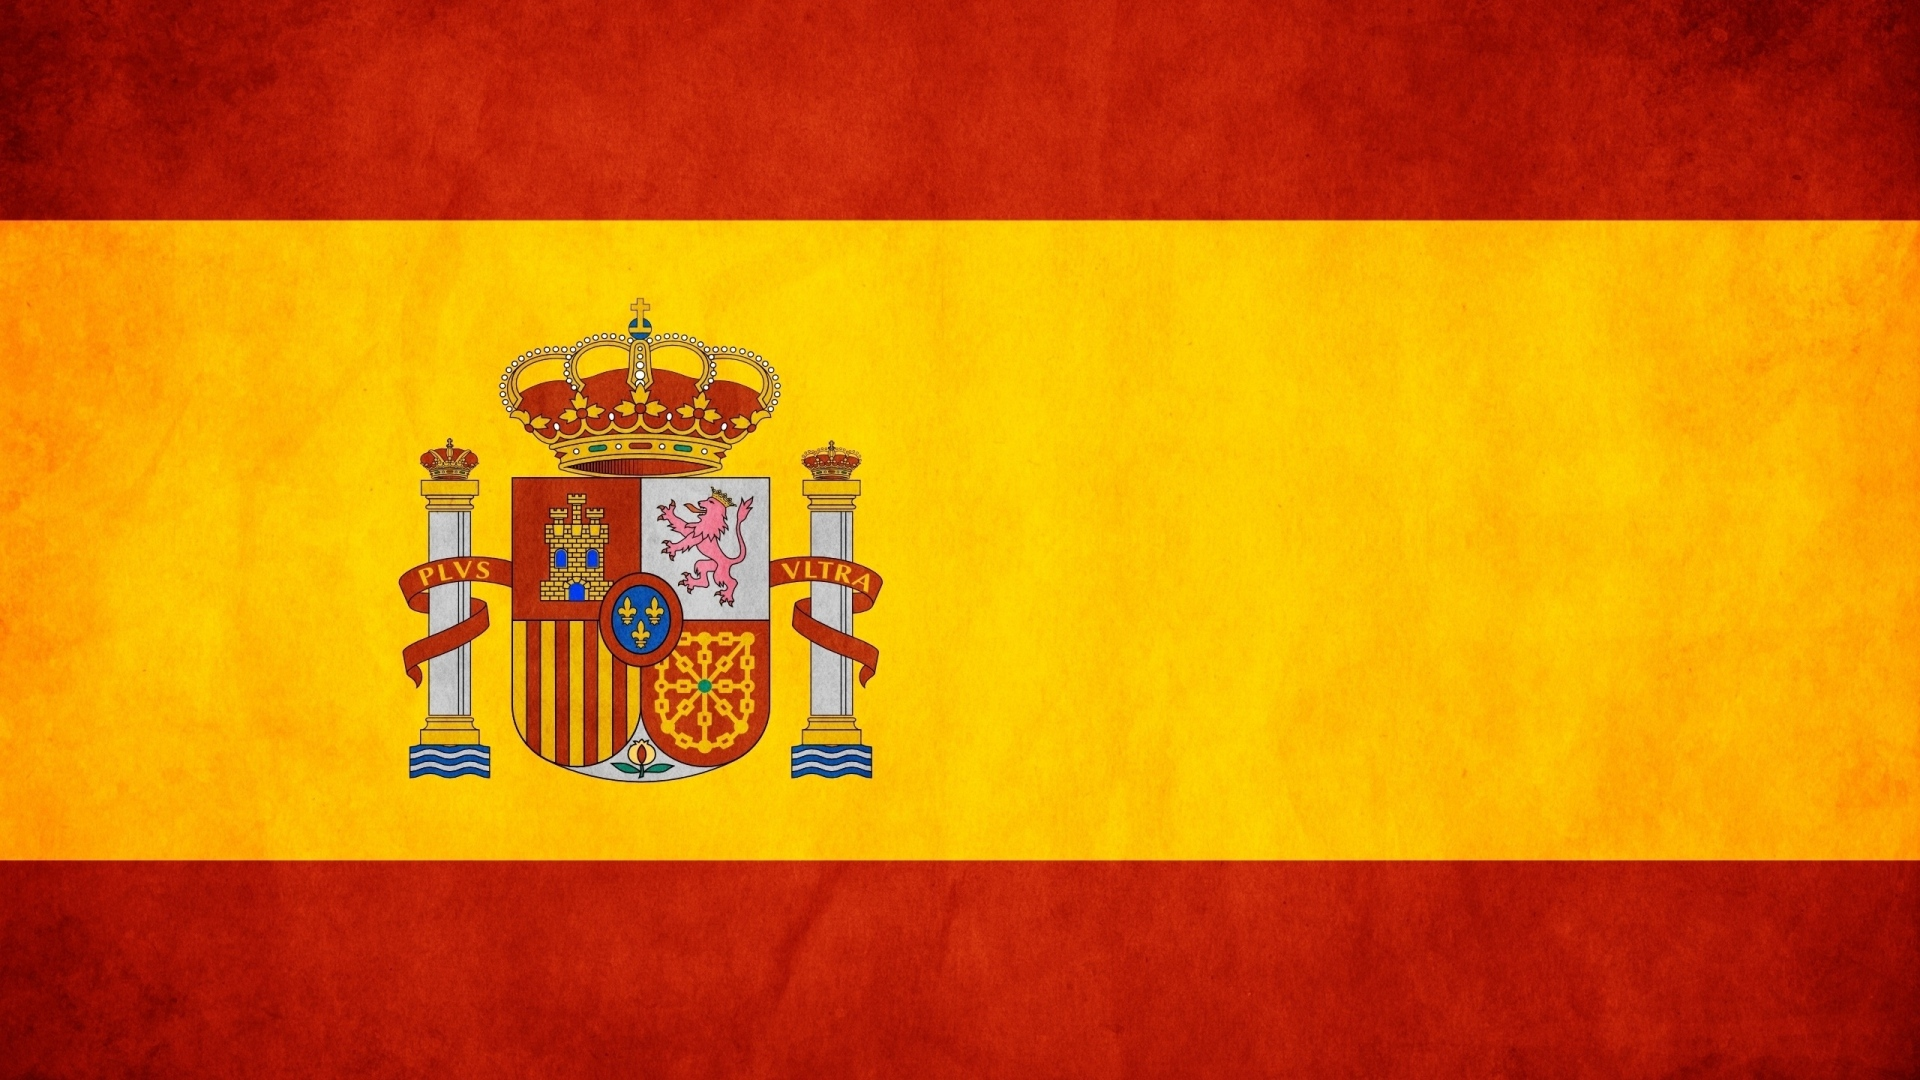
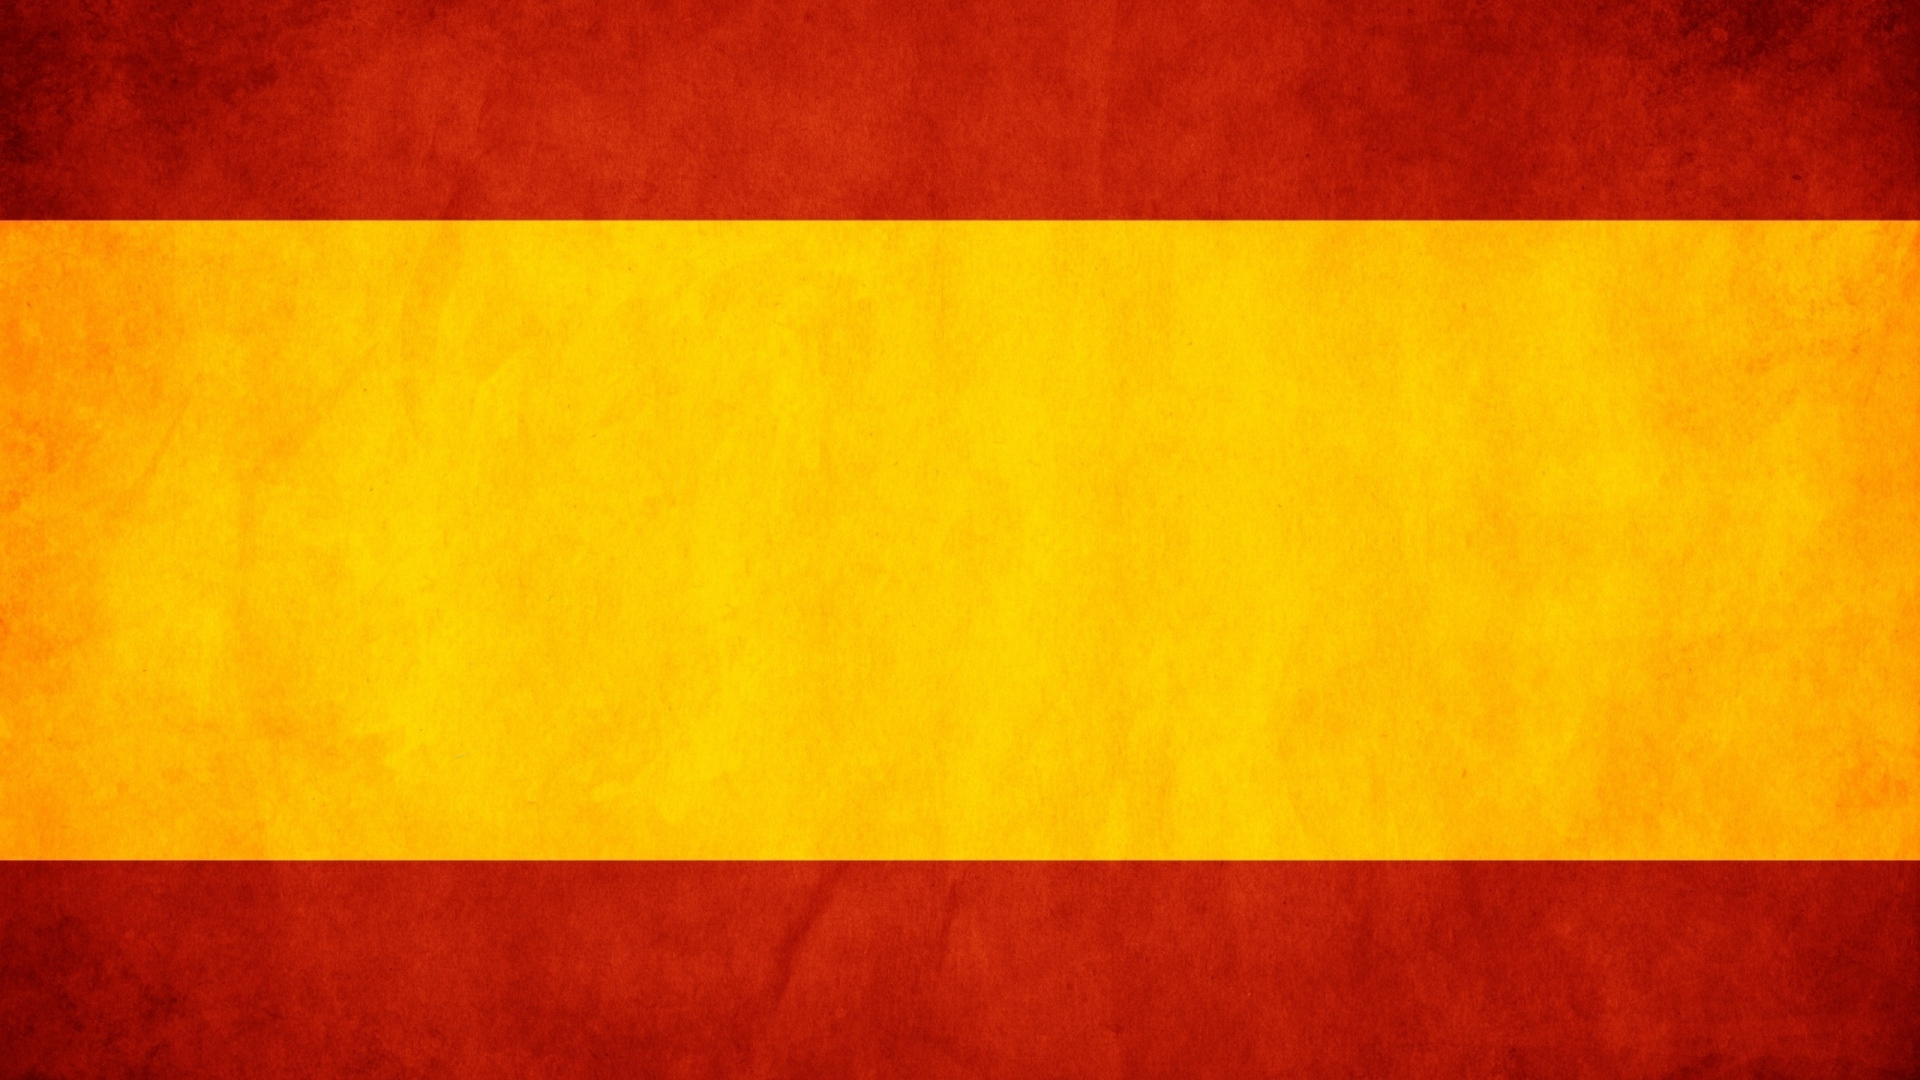
changed design

Changed region(s): [[0.1875, 0.275, 0.4688, 0.7333]]

diff --git a/src/main/webapp/resources/js/teamMatches.js b/src/main/webapp/resources/js/teamMatches.js
@@ -54,6 +54,35 @@ $(document).ready(function () {
             $(".rt02-row").remove();
             $("#team-logo").empty();
 
+
+                var team = $("#TeamsList").val();
+                if (team.toLowerCase() !== "selectteam"){
+                    var season = $("#SeasonsList").val();
+                    //var tournament = $("#TournamentsList").val();
+                    var opponent = $("#OpponentsList").val();
+                    var tournament ="";
+
+                        $.ajax({
+                            data: {"teamCode": team, "opponentTeamCode": opponent, "seasonCode": season, "tournamentCode": tournament},
+                            url: '/teamMatches',
+                            type: 'GET',
+                            datatype: 'json',
+                            headers: {
+                                'Content-Type': 'application/json',
+                                'Version': 'V1',
+                                'Authorization': 'Basic QWRtaW46YWRtaW4='
+                            },
+                            success: function (data, status) {
+                                var total=data.length;
+                                var startIndex=0;
+
+                                  //alert(total);
+                                if (total !== 0) {
+                                    $("#main").removeClass("vertical-aligned");
+                                    $("#countries").hide();
+                                    $("#rt02").show();
+                                    $("#team-logo").append("<img id='team-img' src=/resources/images/" + imgPath[team] + "  width='100px' height='100px' />");
+
             var country = $("#CountriesList").val();
 
                     switch (country) {
@@ -88,38 +117,6 @@ $(document).ready(function () {
                             }
                             break;
                     }
-
-
-                var team = $("#TeamsList").val();
-                if (team.toLowerCase() !== "selectteam"){
-                    var season = $("#SeasonsList").val();
-                    //var tournament = $("#TournamentsList").val();
-                    var opponent = $("#OpponentsList").val();
-                    var tournament ="";
-
-                        $.ajax({
-                            data: {"teamCode": team, "opponentTeamCode": opponent, "seasonCode": season, "tournamentCode": tournament},
-                            url: '/teamMatches',
-                            type: 'GET',
-                            datatype: 'json',
-                            headers: {
-                                'Content-Type': 'application/json',
-                                'Version': 'V1',
-                                'Authorization': 'Basic QWRtaW46YWRtaW4='
-                            },
-                            success: function (data, status) {
-                                var total=data.length;
-                                var startIndex=0;
-
-                                  //alert(total);
-                                if (total !== 0) {
-
-                                    $("#rt02").show();
-
-
-                                    $("#team-logo").append("<img id='team-img' src=/resources/images/" + imgPath[team] + "  width='100px' height='100px' />");
-
-
 
                                 //alert("total !== 0");
                                 var classValue2='odd';

diff --git a/src/main/webapp/resources/css/home.css b/src/main/webapp/resources/css/home.css
@@ -1,5 +1,50 @@
 body {
-    background-image: url(/resources/images/app/texture01.jpg);
+    background-image: url(/resources/images/app/texture02.jpg);
     background-size: 100%;
 
 }
+
+#main{
+    position: absolute;
+    top: 50%;
+    left: 50%;
+    transform: translateX(-50%) translateY(-50%);
+}
+
+#tt-logo{
+vertical-align: middle;
+    width: 400px;
+    height: 60px
+}
+
+.country-img{
+width: 300px;
+height: 160px
+}
+
+	button {
+		border: 0 !important;  /*Removes border*/
+		-webkit-appearance: none;  /*Removes default chrome and safari style*/
+		-moz-appearance: none; /* Removes Default Firefox style*/
+        appearance:none;
+        /*background: #0088cc;*/
+        background: radial-gradient(#909090, #595959);
+		width: 120px; /*Width of select dropdown to give space for arrow image*/
+		text-indent: 0.01px; /* Removes default arrow from firefox*/
+		text-overflow: "";  /*Removes default arrow from firefox*/ /*My custom style for fonts*/
+		color: #FFF;
+		border-radius: 15px;
+		padding: 5px;
+		box-shadow: inset 0 0 5px rgba(000,000,000, 0.5);
+		    font-size: 12pt;
+            font-weight: bold;
+	}
+
+
+	button:hover {
+        /*background: radial-gradient(#FF0000, #880000);*/
+        background: radial-gradient(#77FF00, #00AA00);
+        color: white;
+        -webkit-border-radius: 15px;
+        border-color: #00AA00;
+    }

diff --git a/src/main/webapp/resources/js/Standings.js b/src/main/webapp/resources/js/Standings.js
@@ -13,8 +13,8 @@ $(document).ready(function () {
         $(".teams-buttons").removeClass("team-selected");
         $("#teams-list").hide();
         $("#tbl02").hide();
-        $("#get-info-msg").show();
-        //$(".GP").hide();
+        //$("#get-info-msg").show();
+
 
         var season = $("#SeasonsList").val();
         var tournament = $("#TournamentList").val();
@@ -65,6 +65,8 @@ $(document).ready(function () {
             success: function (data, status) {
                 if (data.length !== 0) {
                     $(".teams-tcell").show();
+                    $("#main").removeClass("vertical-aligned");
+                    $("#countries").hide();
                     var k = 1;
                     for (var i = 0; i < data.length; i++) {
                         $(document.getElementByXPath("//table[@id='tbl01']/tbody/tr[1]/td[" + k + "]")).empty();
@@ -208,7 +210,7 @@ $(document).ready(function () {
                 $(".MD-selected").toggleClass("MD-selected");
 
                 $(".teams-buttons").removeClass("team-selected");
-                alert('Sorry, no results for the ' + $("#TournamentList").val() + '-' + $("#SeasonsList").val());
+                //alert('Sorry, no results for the ' + $("#TournamentList").val() + '-' + $("#SeasonsList").val());
             }
         });
     });

diff --git a/src/main/webapp/resources/css/teamMatches.css b/src/main/webapp/resources/css/teamMatches.css
@@ -1,9 +1,22 @@
 
-
 body {
-    background-image: url(/resources/images/app/texture01.jpg);
+    background-image: url(/resources/images/app/texture02.jpg);
     background-size: 100%;
 
+
+}
+
+
+.vertical-aligned{
+    position: absolute;
+    top: 50%;
+    left: 50%;
+    transform: translateX(-50%) translateY(-50%);
+}
+
+.country-img{
+    width: 120px;
+    height: 170px
 }
 
 .ITA {
@@ -74,7 +87,7 @@ td, th {
 
 
 .rt02-tcell, .rt02-tcell-date, .rt02-tcell-season, .rt02-tcell-matchday {
-    font-size: 7pt;
+    font-size: 8pt;
     font-weight: bold;
 }
 
@@ -147,10 +160,6 @@ td, th {
 		background-color: #595959;
 
 	}
-
-
-
-
 
 
 	button:hover {

diff --git a/src/main/webapp/resources/css/standings.css b/src/main/webapp/resources/css/standings.css
@@ -1,7 +1,19 @@
 body {
-    background-image: url(/resources/images/app/texture01.jpg);
+    background-image: url(/resources/images/app/texture02.jpg);
     background-size: 100%;
 
+}
+
+.vertical-aligned{
+    position: absolute;
+    top: 50%;
+    left: 50%;
+    transform: translateX(-50%) translateY(-50%);
+}
+
+.country-img{
+    width: 120px;
+    height: 170px
 }
 
 .ITA {
